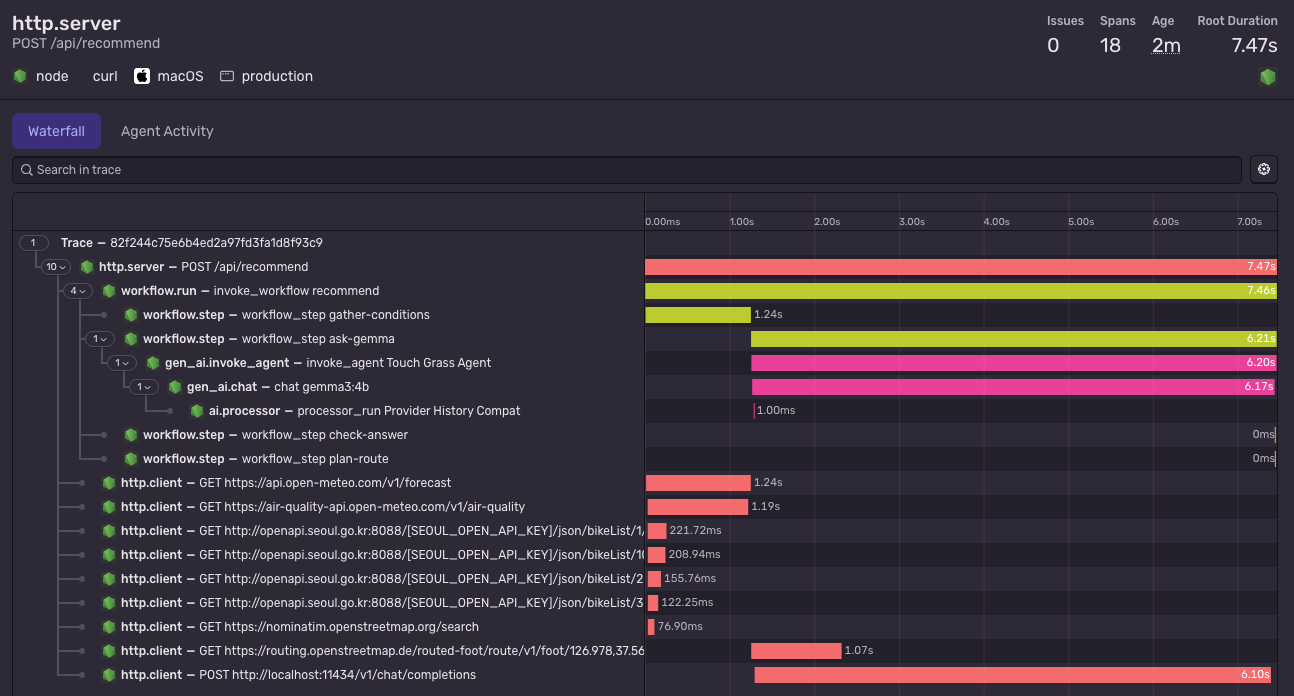
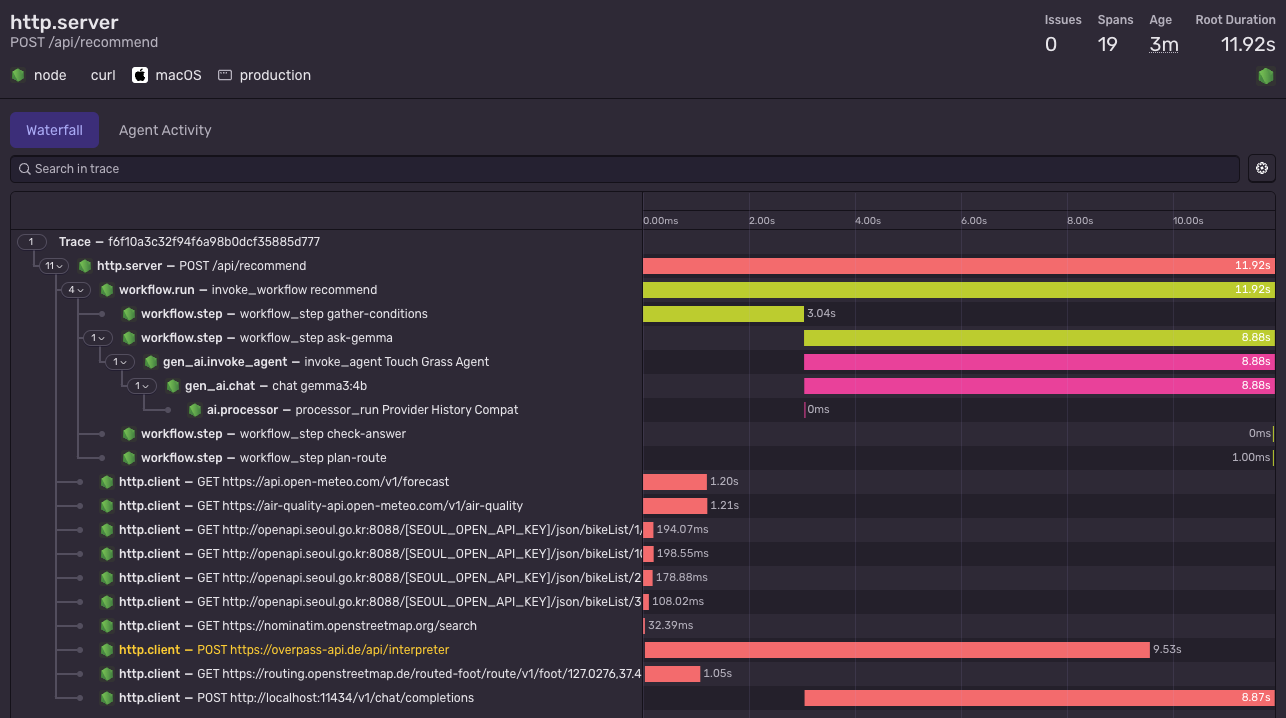
docs: recapture Sentry trace with new step order
- Routes are now measured during gather-conditions
- plan-route reuses the cached route and takes 1 ms

Entire-Checkpoint: 01M47WH9SV8BM8D19QCX3MDAZT

diff --git a/README.md b/README.md
@@ -35,7 +35,7 @@ Set `SEOUL_OPEN_API_KEY` in `apps/server/.env` to include Ddareungi (Seoul publi
 
 Set `SENTRY_DSN` to send traces to Sentry. Each request then shows up as one trace with the four workflow steps, the agent run, the Gemma call, and every outgoing API request, including latency and token usage. The traces include step inputs and outputs, so your location, your questionnaire answers, and the prompt leave your machine; the Seoul API key is masked in request URLs. Leave it empty and nothing is sent.
 
-<p align="center"><img src="docs/sentry-trace.png" alt="Sentry trace of one recommendation: the four workflow steps, the Gemma call, and the outgoing API requests with their latency" width="800"></p>
+<p align="center"><img src="docs/sentry-trace.png" alt="Sentry trace of one recommendation: the OSRM round-trip request runs during gather-conditions, which stops waiting for the slow Overpass request after 3 seconds, so plan-route takes 1 ms" width="800"></p>
 
 ## How it works
 
